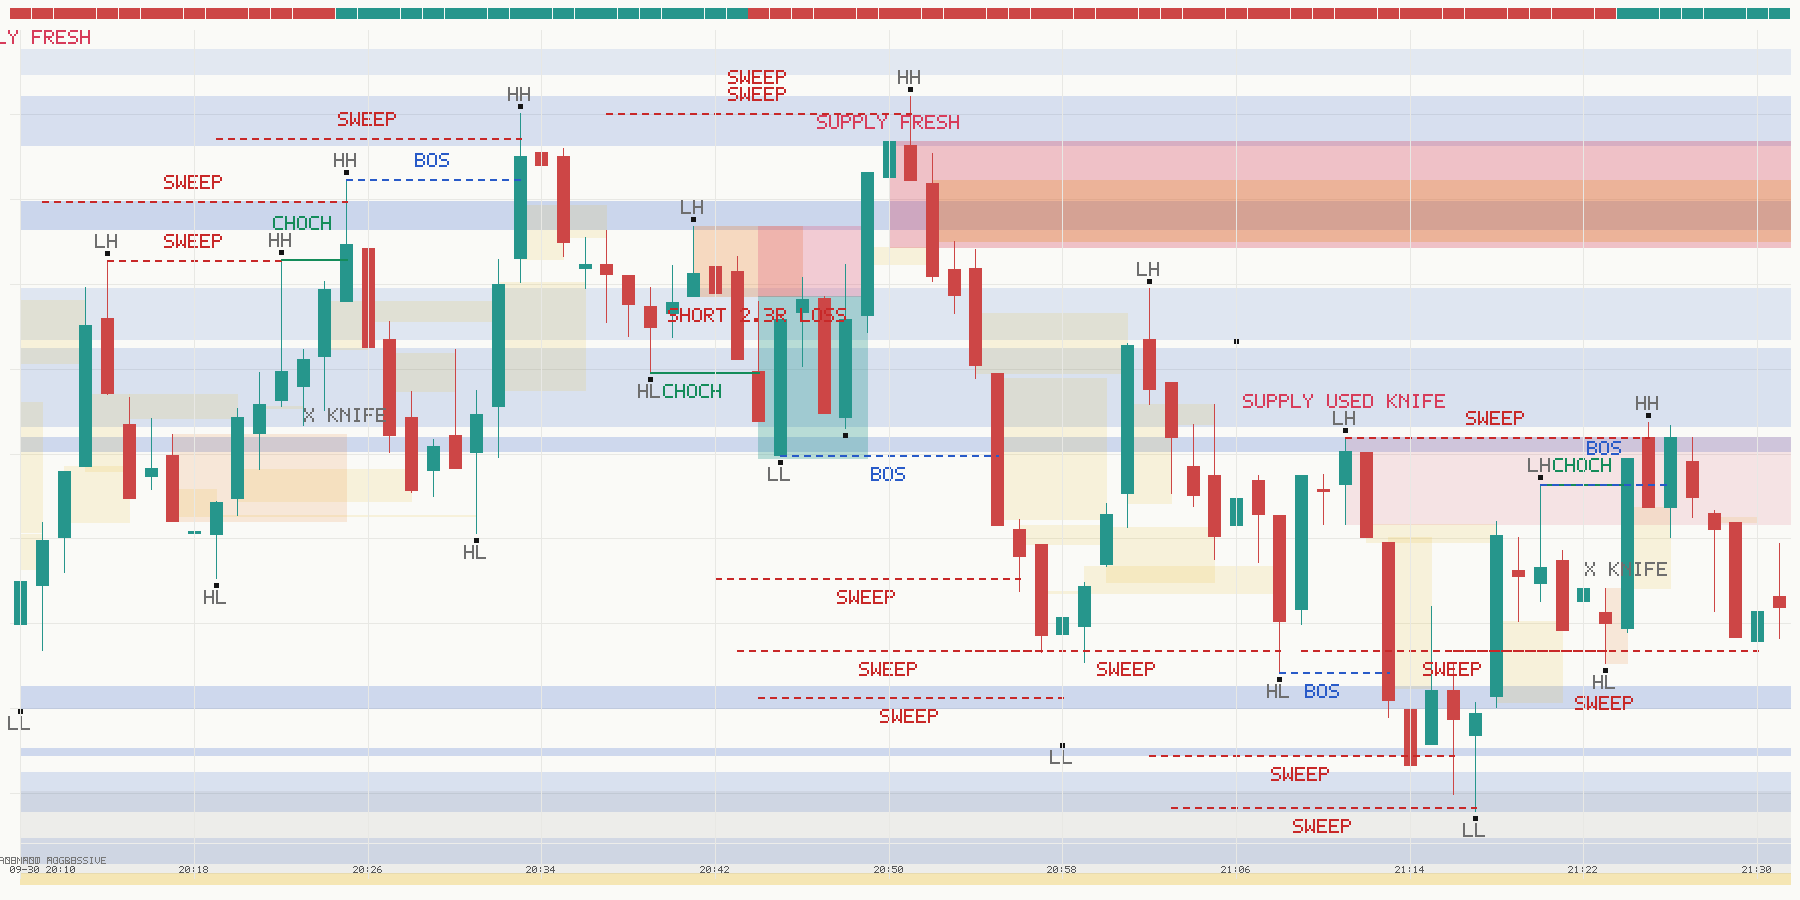
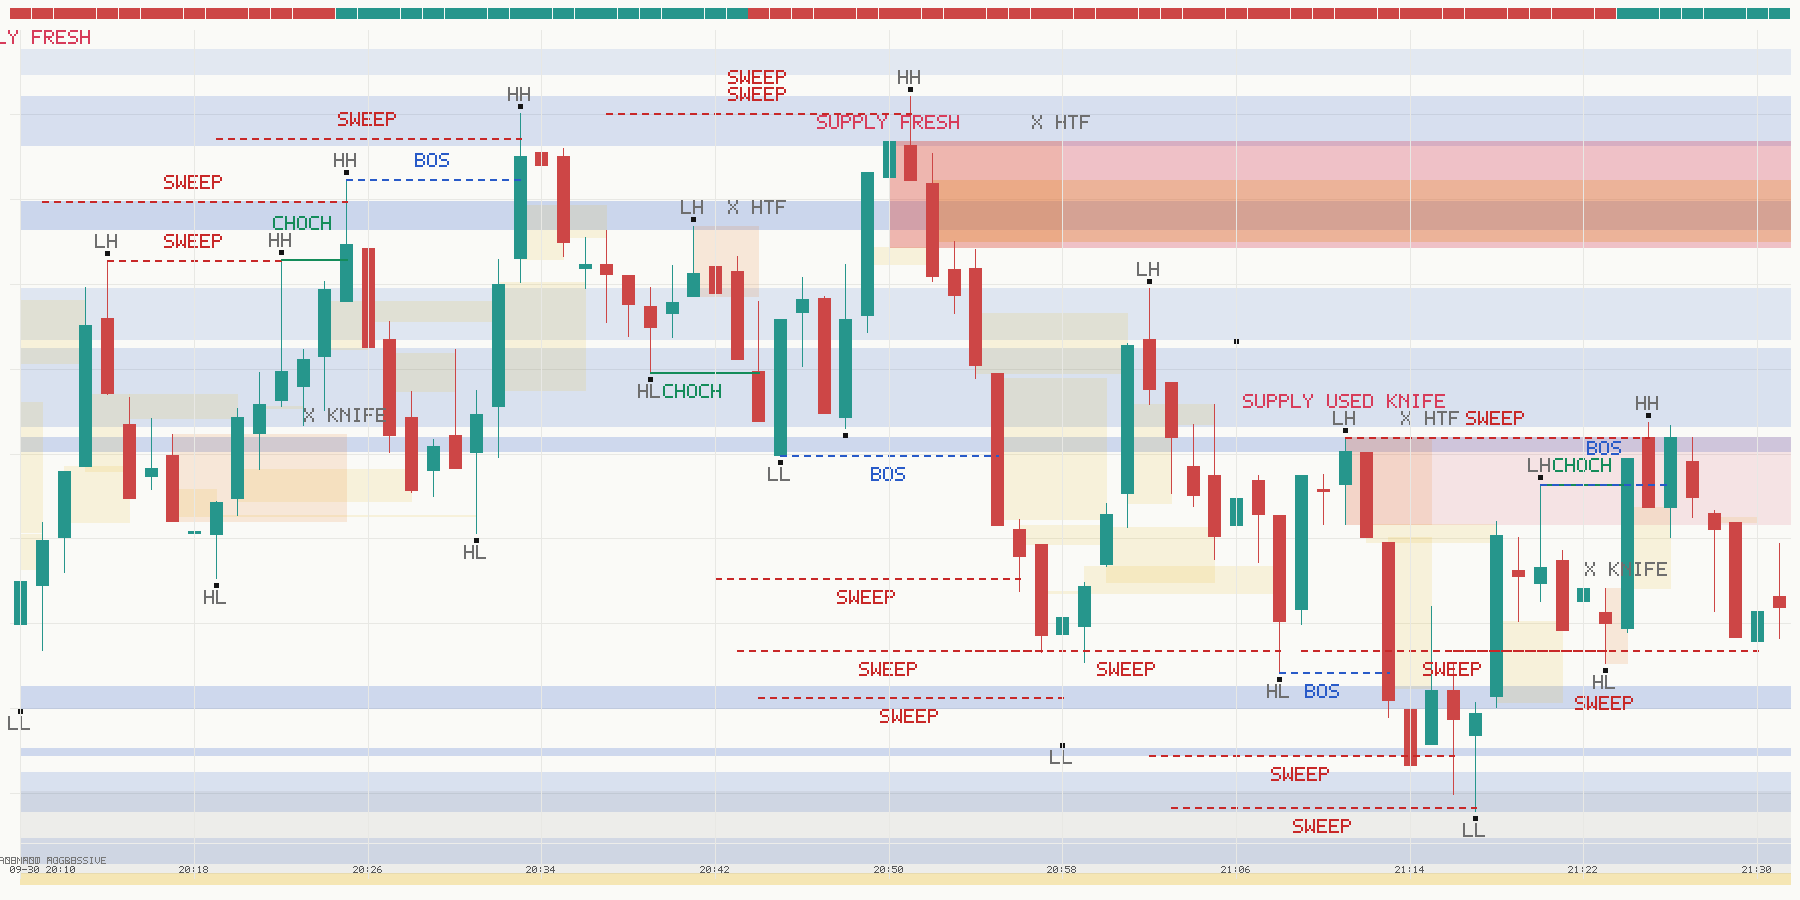
docs: live demo runbook, spec table brought up to date, evidence regenerated

Changed region(s): [[0.3733, 0.2178, 0.4978, 0.5289], [0.7467, 0.4667, 0.8089, 0.5911]]

diff --git a/docs/smc/spec.md b/docs/smc/spec.md
@@ -566,16 +566,20 @@ picture (`clicktrader smc-chart`) before trusting any row.
 | Pushed distance (§2.5) | `S01`, `S08` | **Measured and reported, not gated.** The material judges it by eye and gives no number; gating on one is the invented-constant failure. Shown in each opportunity's reason. |
 | Market control, two states (§2.6) | `S23`, `S24`, `S28` | **Implemented.** Seeded by the first clear structure, then flips only on a true change of character. Shown as the strip along the top of the drawing. |
 | Change of character (§2.7) | `S12`, `S15`, `S17`, `S21`, `S27`, `S46` | **Implemented**: a close through the last swing the current control has to hold. |
-| Liquidity-sweep invalidation (§2.8) | `S15`–`S19` | **Implemented as wick-through-and-close-back** (`SWEEP`, red). It does *not* use the "visible stop cluster to the left" test; that is a judgement the material leaves to the eye. A sweep no longer uses the level up: a later close through it is a fresh break. |
+| Liquidity-sweep invalidation (§2.8) | `S15`–`S19` | **Implemented**: a wick through a level that closes back (`SWEEP`), a wick through a *stacked level* that closes back inside it, and the material's last invalidator — a level that sits inside a stack the market had turned at before, where the close has not left the stack ("a visible stop cluster to the left"): the stops were taken, not a reversal. The last rule fired 4, 5, 1 and 0 times on R_100, V100 (1s), gold and EUR/USD. A sweep does not use the level up. |
 | FVG-mitigation invalidation (§2.8) | `S21`, `S22` | **Implemented** (`GAP FILL`, orange) — but it **has not fired once** on the EUR/USD or gold bars read so far, so the path is tested on fixtures only. |
 | Validator matrix (§2.9) | `S12`, `S15`–`S22` | **Implemented**: every break is one of BOS, CHOCH, SWEEP, GAP FILL, with its reason. |
-| Top-down alignment (§2.10) | `S34`, `S36`, `S38`–`S47` | **Partly.** A veto only: the slower clock's structure (default 60 min over 15 min) must not contradict the trade. The daily → 4H → 1H chain is not built; the recordings are days long, not months. |
-| Daily / macro levels (§2.10) | `S38`, `S39` | **Approximated**: the target is the nearest opposing level on the same chart that leaves the 1:2 floor. There are no daily levels to use. |
+| Top-down alignment (§2.10) | `S34`, `S36`, `S38`–`S47` | **Implemented as a chain**: any number of slower clocks (`--higher-minutes 5 15 60`), each of which must not contradict a trade; every clock in the chain gets a veto (`HTF`). Whether the material's daily → 4H → 1H is best served by this is untested: the recordings are days long, not months. |
+| Daily / macro levels (§2.10) | `S38`, `S39` | **Approximated**: the target is the nearest opposing level on the same chart that leaves the 1:2 floor; with a longer recording and a chain that includes a daily clock this would come from the daily. |
 | Limit entry at the order block (§2.11) | deck; `S36` Entry marker | **Implemented**: entry at the block edge nearest price (bottom of a supply block, top of a demand block). |
 | Stop at the wick (§2.11) | `S46`/`S47`, deck | **Implemented**: beyond the block's far wick. |
 | Minimum 1:2 risk-to-reward (§2.11) | deck; `S36`, `S46`/`S47` | **Enforced**: no level leaving 1:2 means the opportunity is rejected as `NO ROOM`. |
 | Take profit at the next macro level (§2.11) | `S46`/`S47`, deck | **Approximated** as above. |
 | Zone dies on a close beyond its far edge; first tap only; no falling knife | Institutional deck pp. 7–8, Ultimate deck p. 8 | **Implemented** (`DEAD`, first-tap fill, `KNIFE` = the reaching bar is as large as the impulse's median body — a comparison, not a constant). |
+| Flip zone / level stack (S&D Institutional deck p. 9) | deck only | **Implemented** (`stacked`): a true zone that overlaps a level which had been closed through the other way — resistance turned support or the reverse. Reported as conviction; never changes the stake. |
+| Fibonacci 61.8–78.6 confluence (S&D decks) | deck only | **Implemented** (`fib`): the zone lies in the 61.8–78.6% retracement of the leg before it. Reported as conviction only: the decks' "risk 2% instead of 1%" is deliberately **not** implemented, because sizing up is a risk decision, not a reading of a chart. |
+| "Lowest = strongest" (Institutional deck p. 8) | deck only | **Implemented** (`weaker`): among true zones of one kind in one leg only the lowest demand (highest supply) is traded; the rest are declined as weaker. |
+| Trade a fresh true zone (S&D decks) | deck only | **Implemented**: limit at the near edge, stop just outside the far edge, target the nearest level leaving 1:2, only with the trend and the slower clocks. Drawn as `ZONE LONG/SHORT`. |
 | Patience / overtrading (§2.12) | `S48`, `S33` | **Now consistent.** A few true opportunities per few hundred 15-minute bars: EUR/USD 276 bars → 14 CHOCH, 4 armed; gold 287 bars → 14 CHOCH, 3 armed. |
 
 **What is still absent or only approximate, stated plainly:** Fibonacci 61.8 confluence, "lowest = strongest",

diff --git a/docs/live-demo-test.md b/docs/live-demo-test.md
@@ -1,0 +1,54 @@
+# Running the engine live on the demo account
+
+**Everything here uses virtual money.** `run-smc` has two modes and neither can touch a real account: paper mode
+places nothing, and `--place` opens its session with `require_demo=True` and reads only `DERIV_DEMO_ACCOUNT_ID`.
+There is no real-money path in this repository and none should be added on the strength of a demo result.
+
+## Step 1 — paper first (needs no credentials, places nothing)
+
+```bash
+clicktrader run-smc --symbol R_100 --minutes 1 --higher-minutes 5 15 --max-trades 10 --max-seconds 14400
+```
+
+It pulls 1,000 one-minute bars of history so it starts with a chart rather than a blank screen, then reads the live
+feed. Every two minutes it says what it sees; when the engine arms a plan it says `PAPER plan taken (nothing placed)` and
+follows it with the real ticks to its stop or target. Results go to `recordings/smc-paper-trades.jsonl`.
+
+What paper **cannot** show: slippage, the broker's Multipliers commission, and a fill at the stop that is not at the
+stop. Read paper results as "what the engine would have done", never as the account's.
+
+## Step 2 — the demo account, small and capped
+
+Check `.env` has `DERIV_API_TOKEN`, `DERIV_APP_ID` and `DERIV_DEMO_ACCOUNT_ID`, then:
+
+```bash
+clicktrader run-smc --place --symbol R_100 --stake 1 --multiplier 100 --max-trades 3 --max-seconds 7200
+```
+
+- One position at a time, each with its stop and target attached by the broker.
+- `--max-loss-per-trade` (default: the stake) refuses a plan whose stop is worth more than that on the exposure.
+- The caps stop the loop; **Ctrl-C also stops the loop but positions already open keep their stop and target on the
+  broker** — close them by hand in DTrader (Positions → Close) if you want them gone.
+- Results go to `recordings/smc-demo-trades.jsonl`.
+
+## Step 3 — ask whether the evidence is enough
+
+```bash
+clicktrader smc-readiness recordings/smc-demo-trades.jsonl recordings/smc-paper-trades.jsonl
+```
+
+It says, in plain words, what the logs show. It reports **READY** only with at least 500 *placed* demo trades and a 95%
+interval on the mean result per unit risked that sits wholly above zero; paper trades never count toward that, because
+they carry no costs. Exit code 0 means READY, 1 means not.
+
+## What to expect, honestly
+
+- **Three trades prove nothing.** The project's own bar is 500 settled trades before it reads a result, and on the data
+  it holds the engine arms a handful of trades per day per instrument, so that is weeks of running, not an afternoon.
+- **Nothing here has been validated.** The hindsight outcomes in `docs/evidence/` are tiny samples (3 wins of 4 zone trades
+  on one afternoon of R_100, 0 wins of 2 on EUR/USD); the engine has been compared with only two markups, both made by an
+  agent, not the owner.
+- The strategy "fills" when price reaches a zone or block, and the runner then buys **at market** on that tick: expect
+  slippage against the level the plan was written at.
+- Gold's market closes 21:00–22:00 GMT daily; the volatility indices trade around the clock. If the broker refuses a
+  multiplier for a symbol, the error is printed and nothing is placed.

diff --git a/docs/smc/README.md b/docs/smc/README.md
@@ -130,3 +130,7 @@ changes of character, sweeps, trades, no-trade windows; see `docs/evidence/marku
 `clicktrader smc-compare markup.json recording.jsonl` says, for each mark, whether the engine said the same and what
 it said instead. The first markup was written by an AI agent, not the owner, and the file says so; the owner's own
 marks go in the same format.
+
+**Running it live.** See [`docs/live-demo-test.md`](../live-demo-test.md): paper first (`clicktrader run-smc`, places
+nothing), then the demo account (`--place`), then `smc-readiness` for whether the evidence is enough. There is no
+real-money path.
